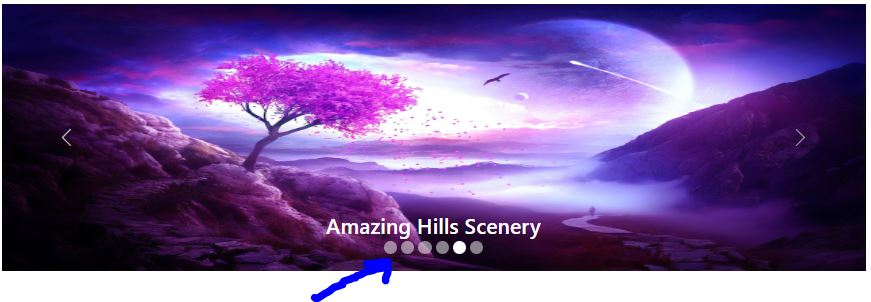
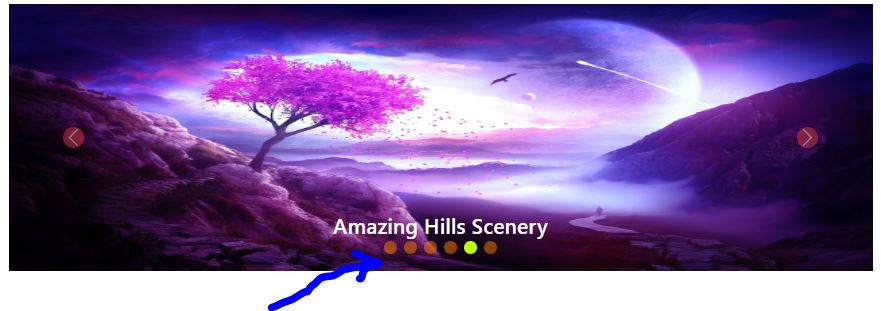
Carousel Indicator update

diff --git a/styles.css b/styles.css
@@ -11,9 +11,23 @@
 }
 
 
-.abcd {
+/* .abcd {
     width: 20px !important;
     height: 20px !important;
     border-radius: 100% !important;
-    
+    cursor: pointer !important;
+ }  */
+
+.carousel-indicators ul {
+    background-color: #ff8000 !important; /* Default color for inactive indicators */
+    border-radius: 50% !important; /* Make it a circle */
+    width: 20px !important; /* Set width of the dot */
+    height: 20px !important; /* Set height of the dot */
+    margin: 0 5px !important; /* Set margin between dots */
+    cursor: pointer !important;
 }
+
+.carousel-indicators .active {
+    background-color: #bfff00 !important; /* Color for the active indicator */
+}
+

diff --git a/index.html b/index.html
@@ -135,10 +135,10 @@
               </div>
           </div>
           <button class="carousel-control-prev" data-bs-slide="prev" data-bs-target="#seeimage">
-              <span class="carousel-control-prev-icon"></span>
+              <span class="carousel-control-prev-icon bg-danger rounded-circle"></span>
           </button>
           <button class="carousel-control-next" data-bs-slide="next" data-bs-target="#seeimage">
-              <span class="carousel-control-next-icon"></span>
+              <span class="carousel-control-next-icon bg-danger rounded-circle"></span>
           </button>
 
           <ol class="carousel-indicators">
